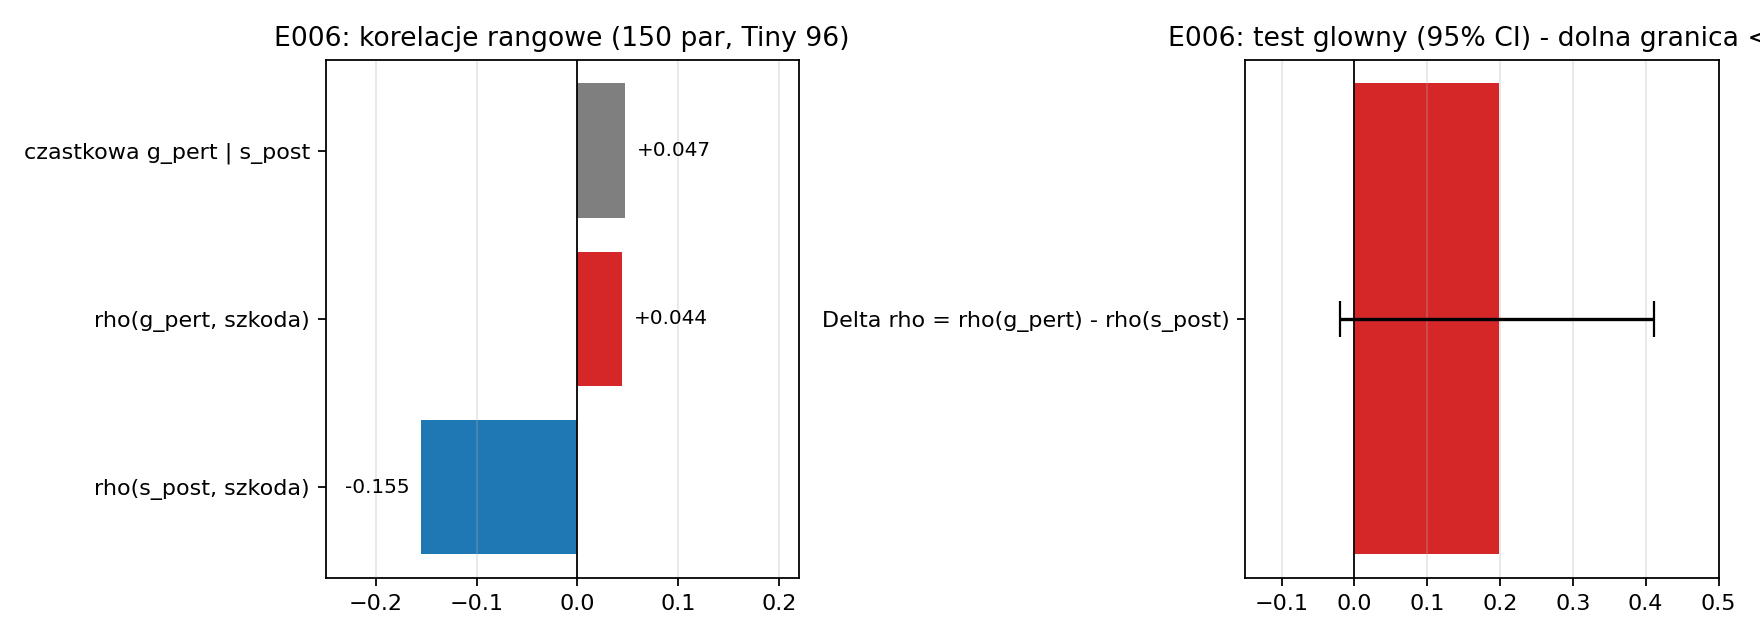
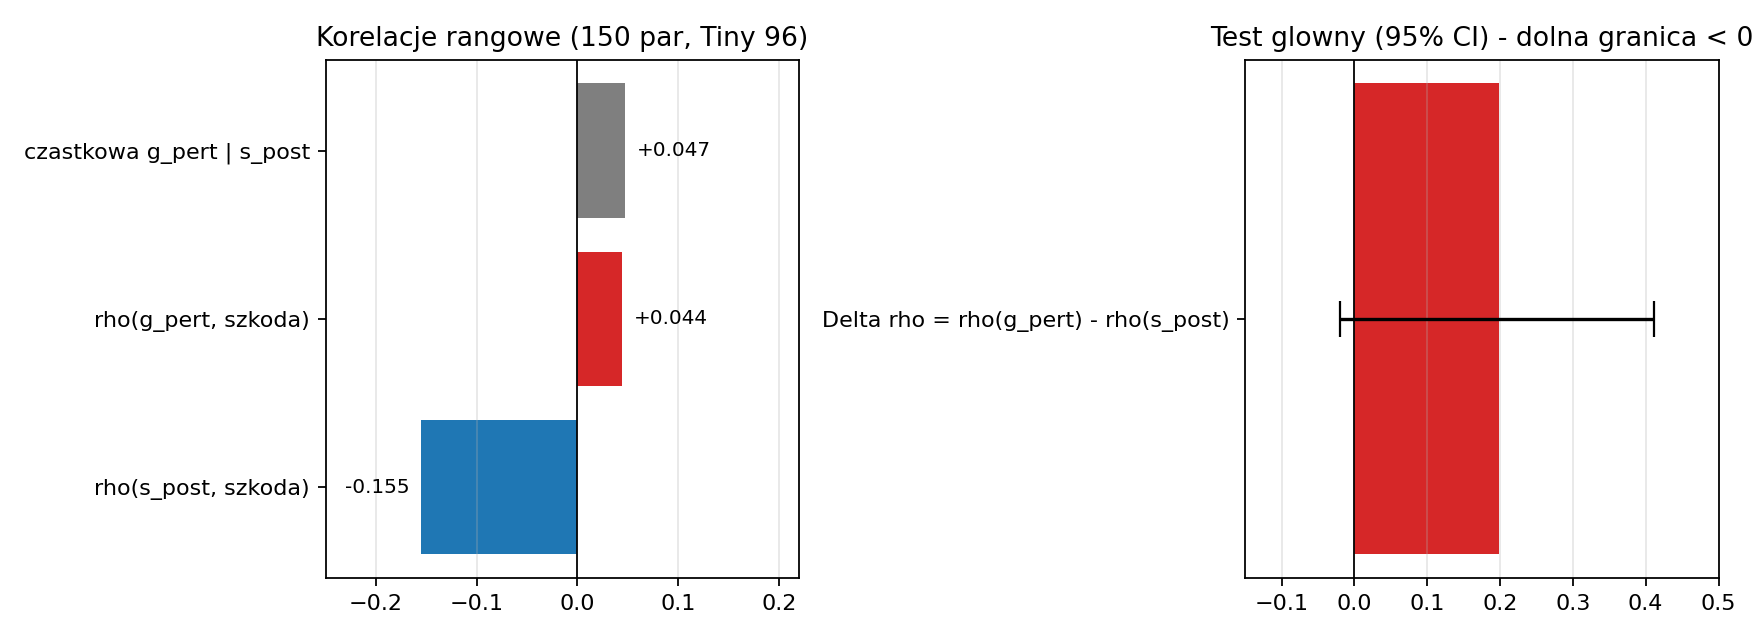
Remove experiment codes from figure titles; prepare final stage-2 results figure

Changed region(s): [[0.6562, 0.0312, 1.0, 0.0938], [0.1562, 0.0312, 0.5, 0.0938]]

diff --git a/reports/2026-10-12_promotor/generuj_wykresy.py b/reports/2026-10-12_promotor/generuj_wykresy.py
@@ -44,7 +44,7 @@ def fig_e001_curve():
             color='#999999', label='train top-1')
     ax.annotate('dev 66,84% (best, ep. 177)', xy=(177, 66.84), xytext=(100, 82),
                 arrowprops=dict(arrowstyle='->', color='#333333'), fontsize=9)
-    ax.set_title('E001: CIFAR-100, 96x96, 200 epok')
+    ax.set_title('Baseline CIFAR-100, 96x96, 200 epok')
     ax.set_xlabel('epoka')
     ax.set_ylabel('top-1 [%]')
     ax.set_ylim(0, 100)
@@ -57,8 +57,8 @@ def fig_e005_e007_curves():
     e5 = rows(E005)
     e7 = rows(E007)
     fig, ax = plt.subplots(figsize=(6.6, 4.4))
-    for data, label, color in ((e5, 'E005: 96x96 -> dev 51,53%', '#1f77b4'),
-                               (e7, 'E007: 224x224 -> dev 58,49%', '#d62728')):
+    for data, label, color in ((e5, 'baseline 96x96 -> dev 51,53%', '#1f77b4'),
+                               (e7, 'baseline 224x224 -> dev 58,49%', '#d62728')):
         ax.plot([r['epoch'] for r in data], [100 * r['dev_top1'] for r in data],
                 color=color, label=label)
     ax.set_title('Tiny ImageNet: baseline 96 vs 224 (100 epok)')
@@ -78,7 +78,7 @@ def fig_e003_raw():
     for bar, value in zip(bars, values):
         ax.text(bar.get_x() + bar.get_width() / 2, value + 0.8, f'{value:.2f}',
                 ha='center', fontsize=10)
-    ax.set_title('E003: CIFAR-100, redukcja 10%, bez naprawy')
+    ax.set_title('Kompresja 10% na CIFAR-100, bez naprawy')
     ax.set_ylabel('dev top-1 [%]')
     ax.set_ylim(0, 75)
     ax.grid(axis='y', alpha=0.3)
@@ -93,7 +93,7 @@ def fig_repair():
     for bar, value in zip(bars, values):
         ax.text(bar.get_x() + bar.get_width() / 2, value + 0.03, f'{value:.2f}',
                 ha='center', fontsize=10)
-    ax.set_title('E004: CIFAR-100 po rownym dostrajaniu (120 epok)')
+    ax.set_title('CIFAR-100 po rownym dostrajaniu (120 epok)')
     ax.set_ylabel('dev top-1 [%]')
     ax.set_ylim(64, 69)
     ax.grid(axis='y', alpha=0.3)
@@ -116,7 +116,7 @@ def fig_e006():
                 va='center', ha='left' if value >= 0 else 'right', fontsize=9)
     ax.axvline(0, color='black', linewidth=0.8)
     ax.set_xlim(-0.25, 0.22)
-    ax.set_title('E006: korelacje rangowe (150 par, Tiny 96)')
+    ax.set_title('Korelacje rangowe (150 par, Tiny 96)')
     ax.grid(axis='x', alpha=0.3)
     ax = axes[1]
     ax.barh(['Delta rho = rho(g_pert) - rho(s_post)'], [0.199],
@@ -124,7 +124,7 @@ def fig_e006():
             error_kw=dict(ecolor='black', capsize=8))
     ax.axvline(0, color='black', linewidth=0.8)
     ax.set_xlim(-0.15, 0.5)
-    ax.set_title('E006: test glowny (95% CI) - dolna granica < 0')
+    ax.set_title('Test glowny (95% CI) - dolna granica < 0')
     ax.grid(axis='x', alpha=0.3)
     save(fig, 'fig_bramki_se.png')
 
@@ -141,7 +141,7 @@ def fig_e008_stage1():
                 ha='center', fontsize=9)
     ax.set_xticks(range(len(ticks)))
     ax.set_xticklabels(ticks, rotation=30, ha='right')
-    ax.set_title('E008 etap 1: Tiny ImageNet 224, 10% i 30%, bez naprawy')
+    ax.set_title('Tiny ImageNet 224: redukcja 10% i 30%, bez naprawy')
     ax.set_ylabel('dev top-1 [%]')
     ax.set_ylim(0, 68)
     ax.grid(axis='y', alpha=0.3)
@@ -153,15 +153,45 @@ def fig_e008_stage2_base():
     fig, ax = plt.subplots(figsize=(6.6, 4.0))
     epochs = [r['epoch'] for r in base]
     ax.plot(epochs, [100 * r['dev_top1'] for r in base], marker='o', color='#444444',
-            label='BASE (dostrajanie)')
-    ax.axhline(58.49, color='#999999', linestyle='--', label='E007 (przed dostrajaniem): 58,49%')
-    ax.set_title(f'E008 etap 2 w toku: BASE, epoka {epochs[-1]}/60 (12.10.2026)')
+            label='baseline (dostrajanie)')
+    ax.axhline(58.49, color='#999999', linestyle='--',
+               label='baseline przed dostrajaniem: 58,49%')
+    finished = (E008_RUN / 'stage2/stage2_metrics.json').exists()
+    state = 'zakonczony' if finished else 'w toku'
+    ax.set_title(f'Etap 2 ({state}): baseline, epoka {epochs[-1]}/60 (12.10.2026)')
     ax.set_xlabel('epoka')
     ax.set_ylabel('dev top-1 [%]')
     ax.set_ylim(50, 62)
     ax.legend(loc='lower right', fontsize=9)
     ax.grid(alpha=0.3)
     save(fig, 'fig_etap2_w_toku.png')
+
+
+def fig_etap2_wyniki():
+    metrics_path = E008_RUN / 'stage2/stage2_metrics.json'
+    if not metrics_path.exists():
+        print('skip fig_etap2_wyniki: brak stage2_metrics.json (bieg w toku)')
+        return
+    metrics = json.loads(metrics_path.read_text())['variants']
+    names = ['BASE', 'PRE', 'POST', 'RANDOM']
+    values = [100 * metrics[name]['last_row']['dev_top1'] for name in names]
+    fig, ax = plt.subplots(figsize=(6.8, 4.4))
+    bars = ax.bar(names, values, color=[COLORS[n] for n in names], width=0.62)
+    for bar, value in zip(bars, values):
+        ax.text(bar.get_x() + bar.get_width() / 2, value + 0.15, f'{value:.2f}',
+                ha='center', fontsize=10)
+    ax.set_title('Kompresja 30% po rownym dostrajaniu (60 epok)')
+    ax.set_ylabel('dev top-1 [%]')
+    ax.set_ylim(min(values) - 2, max(values) + 2)
+    ax.grid(axis='y', alpha=0.3)
+    summary_path = E008_RUN / 'summary.json'
+    if summary_path.exists():
+        primary = json.loads(summary_path.read_text())['primary']
+        ax.annotate('POST - PRE = %+.3f, CI [%.3f; %.3f]' % (
+            primary['delta_top1'], primary['ci95_top1'][0], primary['ci95_top1'][1]),
+            xy=(0.5, 0.03), xycoords='axes fraction', ha='center', fontsize=9,
+            bbox=dict(boxstyle='round', fc='#eef3fb', ec='#0b3d91'))
+    save(fig, 'fig_etap2_wyniki.png')
 
 
 if __name__ == '__main__':
@@ -174,4 +204,5 @@ if __name__ == '__main__':
     fig_e006()
     fig_e008_stage1()
     fig_e008_stage2_base()
+    fig_etap2_wyniki()
     print('E008_PROMOTOR_FIGURES=done')
